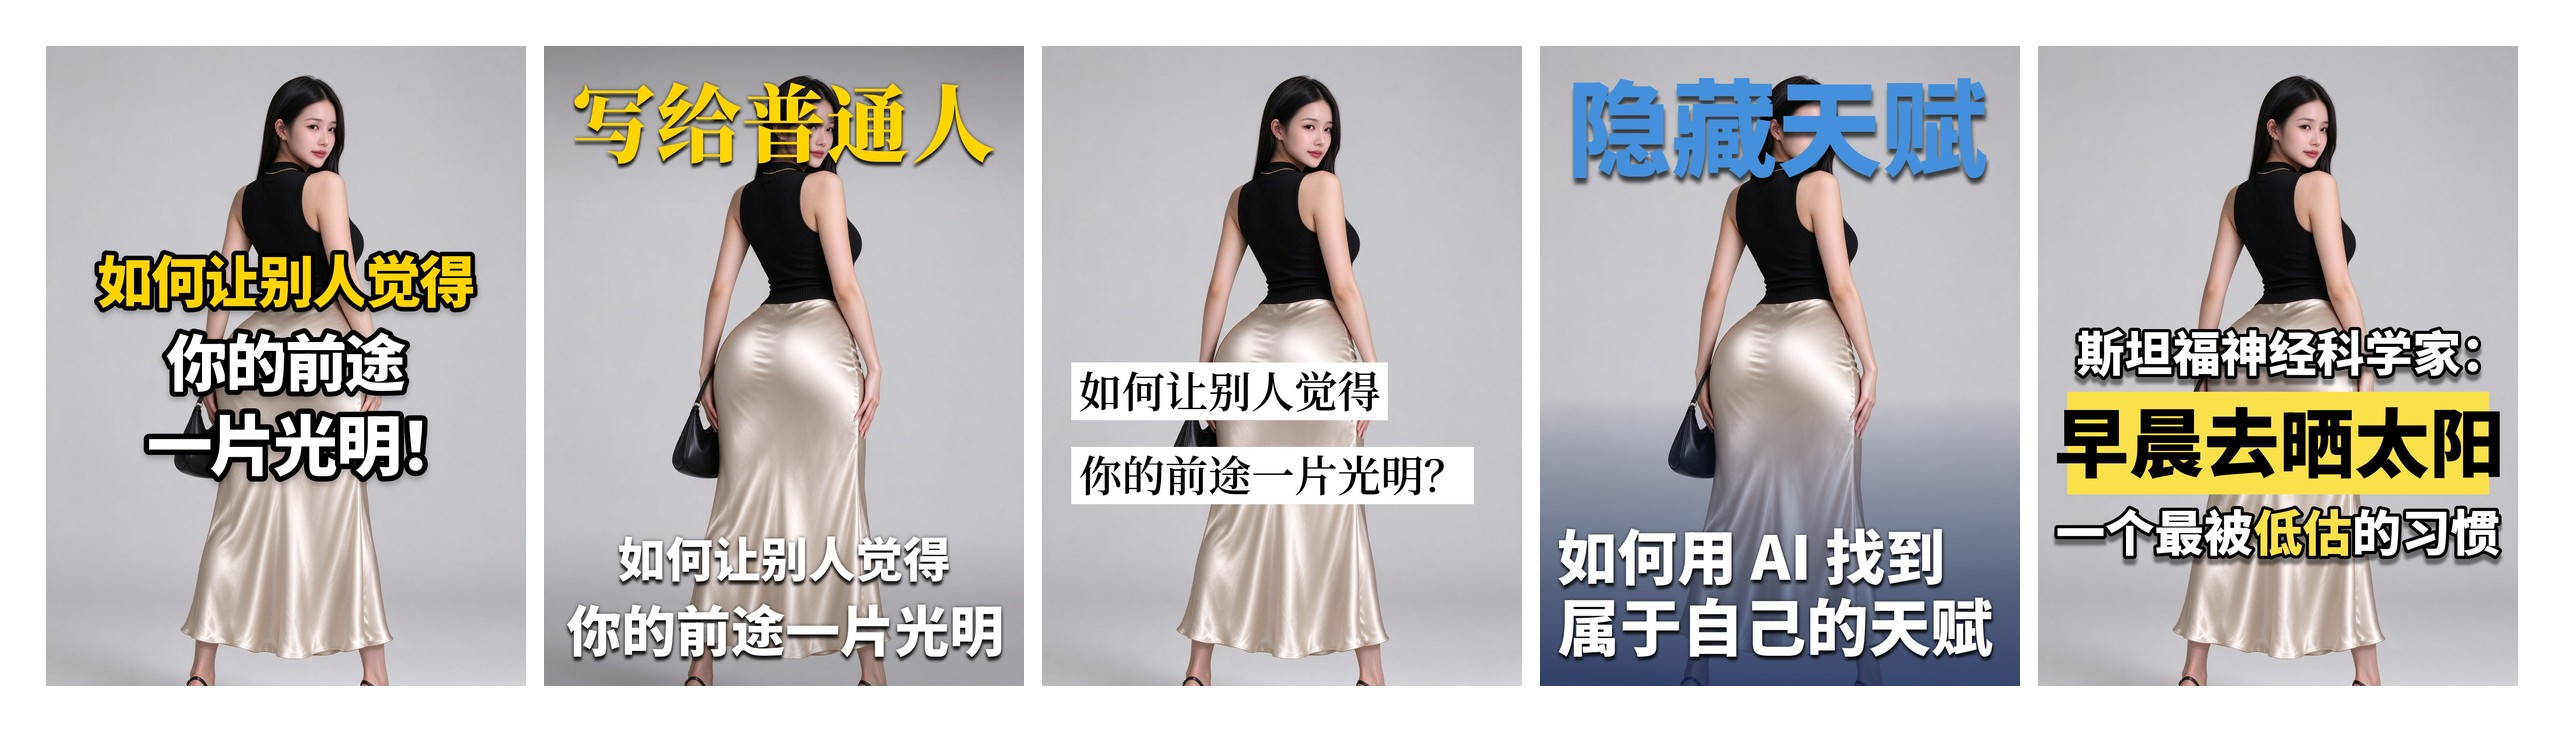
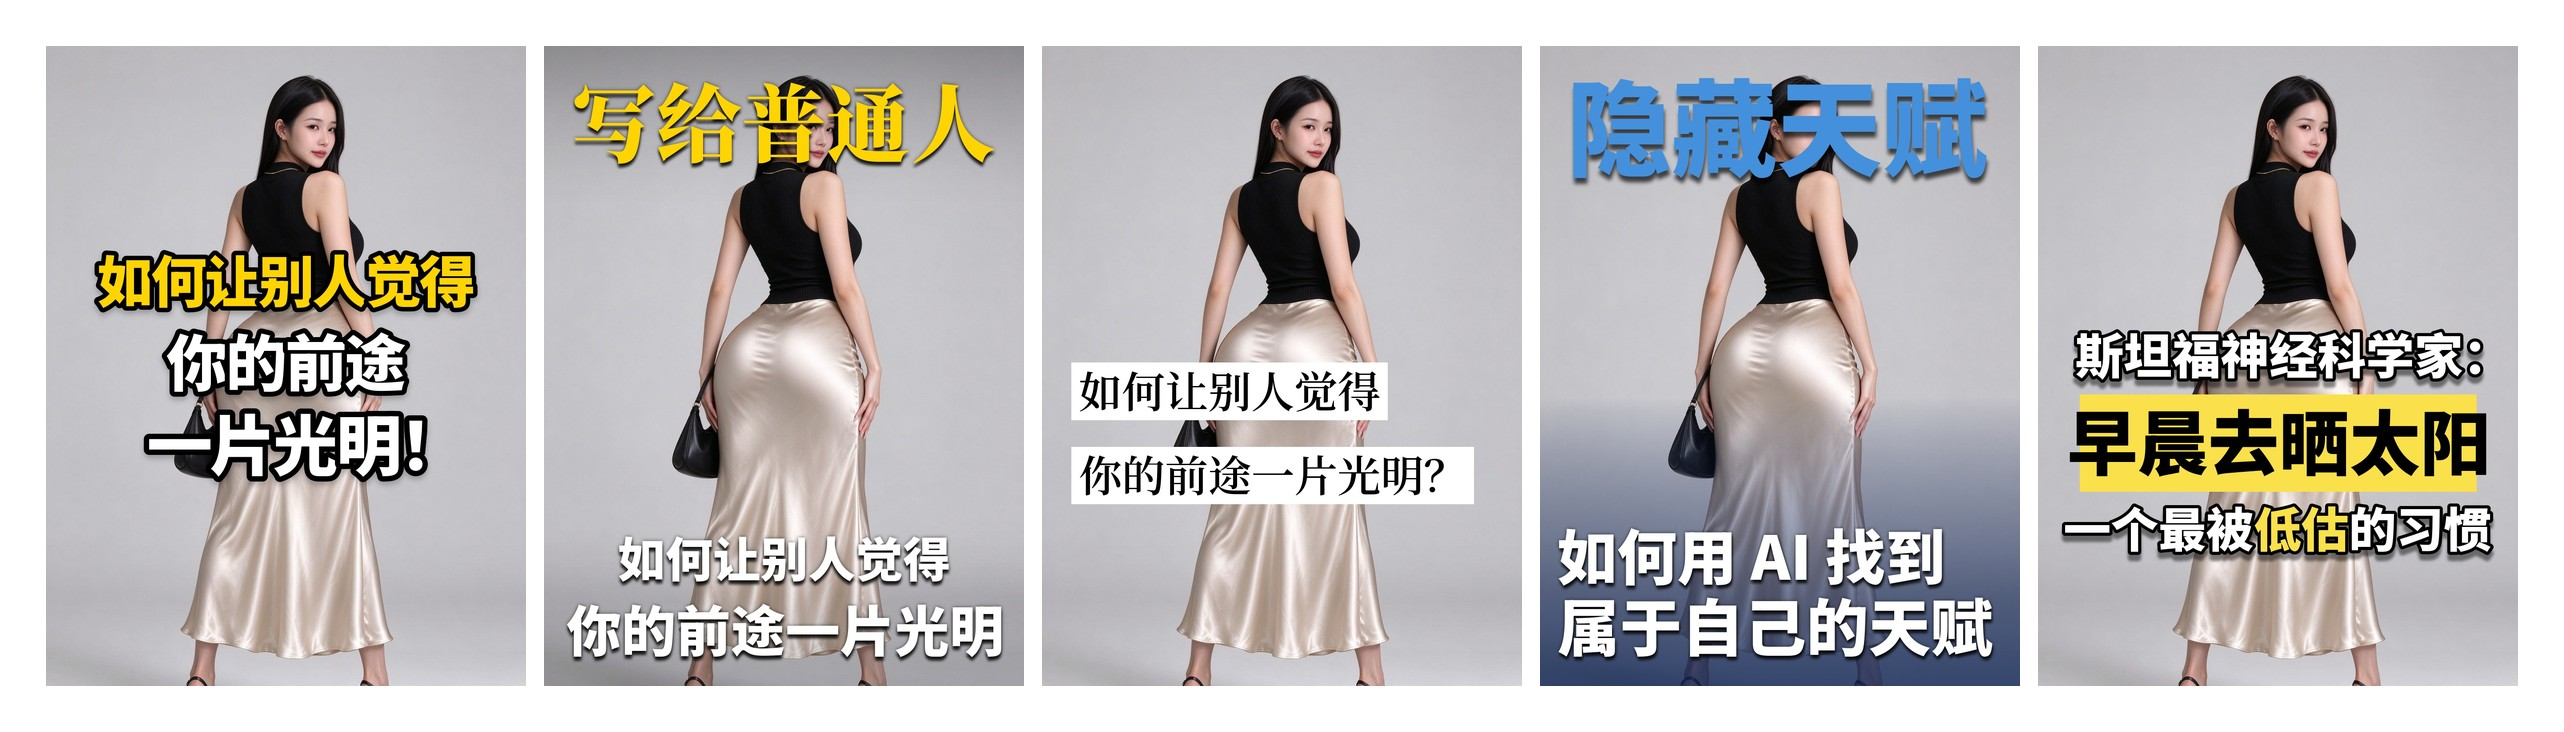
fix(style05): 三行字号拆成各自独立范围，主标题封顶 160
- 问题：4 字主标题按 0.92W 反解会到 235 号，中间那块比画面上半身还重
- 上一版用「主标题 × 比例」约束上下行，主标题一大上下行跟着膨胀，底行撑到 93%W 撞边
- 改成三行各一个绝对字号上限：ink_max 0.148(160) / id_max 0.118(127) / bot_max 0.120(130)
- id_cap 0.64→0.80、bot_cap 0.72→0.88，降级为兜底，主控交给绝对上限
- bot_w 0.93→0.90，底行不再压到画布边
- 新增主标题字数提醒：<4 字黄条窄成一坨、>7 字层级跟上下行拉平
- 文档补三版改法的对照表和「黄条宽度只由字数决定」

Changed region(s): [[0.78, 0.4508, 0.9984, 0.7814]]

diff --git a/tools/style05_yellow_bar.py b/tools/style05_yellow_bar.py
@@ -27,6 +27,7 @@
 """
 import argparse
 import os
+import sys
 
 from PIL import Image, ImageDraw, ImageFilter, ImageFont
 
@@ -43,17 +44,25 @@ BLACK = '#000000'
 
 ID_W = 0.860           # 身份行墨迹宽 / 画布宽
 INK_W = 0.920          # 主标题墨迹宽 / 画布宽（故意比黄条宽，字咬出条外）
-BOT_W = 0.930          # 底行墨迹宽 / 画布宽（底行要压得比黄条宽一点）
+BOT_W = 0.900          # 底行墨迹宽 / 画布宽（贴边到 0.93 会压到画布边，0.90 更稳）
 BAR_SCALE = 0.950      # 黄条宽 / 主标题墨迹宽（<1 = 字咬出黄条两侧，参考图就是这样）
 BAR_H = 1.42           # 黄条高 / 主标题墨迹高
 BAR_CY = 0.620         # 黄条中心 y / 画布高
 GAP_ID = 0.024         # 身份行墨迹底 → 黄条顶 / 画布宽
 GAP_BOT = 0.024        # 黄条底 → 底行墨迹顶 / 画布宽
 STROKE = 0.065         # 黑描边 / 字号
-ID_CAP = 0.64          # 身份行字号上限 / 主标题字号
-BOT_CAP = 0.72         # 底行字号上限 / 主标题字号
+ID_CAP = 0.80          # 身份行字号上限 / 主标题字号（绝对上限为主，这个只兜底）
+BOT_CAP = 0.88         # 底行字号上限 / 主标题字号（绝对上限为主，这个只兜底）
 MIN_SIZE = 0.045       # 字号下限 / 画布宽
 MAX_SIZE = 0.230       # 字号上限 / 画布宽
+# 主标题字号范围（这是本卡最容易失控的地方）
+# 主标题宽度写死 0.92W 时，4 字会放到 235 号——黄条厚成一条路障，字比画面还重。
+# 参考图是 6 字 / 87.9%W → 159 号，所以给主标题一个字号上下限，超出就让宽度自己收。
+# 三行各自一个字号范围，互不联动。以前身份行/底行按「主标题 × 比例」算，
+# 主标题一变大，上下两行跟着膨胀，底行会撑到 93%W 撞边 —— 比例制必须换掉。
+INK_MAX = 0.148        # 主标题字号上限 / 画布宽（≈160 号）
+ID_MAX = 0.118         # 身份行字号上限 / 画布宽（≈127 号）
+BOT_MAX = 0.120        # 底行字号上限 / 画布宽（≈130 号）
 
 SHADOW_ALPHA = 120     # 白字投影浓度（底图本身暗，不需要太重）
 SHADOW_DY = 0.0050     # / 画布高
@@ -202,6 +211,7 @@ def render(base, out, id_text='', ink_text='', bot_text='', hl_words='',
            font='noto', yellow=YELLOW, ink=WHITE,
            bar_scale=BAR_SCALE, bar_cy=BAR_CY, stroke=STROKE,
            id_w=ID_W, ink_w=INK_W, bot_w=BOT_W,
+           ink_max=INK_MAX, id_max=ID_MAX, bot_max=BOT_MAX,
            id_cap=ID_CAP, bot_cap=BOT_CAP,
            width=1080, height=1440, offset_y=0, shadow=True):
     W, H = width, height
@@ -214,18 +224,27 @@ def render(base, out, id_text='', ink_text='', bot_text='', hl_words='',
     # ---- 主标题：黑字无描边，压在黄条上
     ink_layer, ink_size = fit_line(
         ink_text, FONTS, font, W * ink_w, W, hex2rgba(BLACK),
-        stroke_ratio=0.0) if ink_text else (None, 0)
+        stroke_ratio=0.0, max_size=W * ink_max) if ink_text else (None, 0)
+
+    # 这套样式的骨架是「主标题 4-6 字」：少于 4 字黄条窄成一坨，多于 7 字字号塌到跟上下行一样大
+    n_ink = len(ink_text.strip()) if ink_text else 0
+    if n_ink and n_ink < 4:
+        print(f'  [warn] 主标题只有 {n_ink} 字，黄条会窄到 {n_ink/6:.0%} 左右；'
+              f'建议补到 4-6 字', file=sys.stderr)
+    elif n_ink > 7:
+        print(f'  [warn] 主标题 {n_ink} 字，字号已降到 {round(ink_size)}，'
+              f'层级会跟上下行拉平；建议压到 7 字以内', file=sys.stderr)
 
     # ---- 身份行：白字黑边，字号不许超过主标题
     id_layer, id_size = fit_line(
         id_text, FONTS, font, W * id_w, W, hex2rgba(ink),
-        stroke_ratio=stroke, max_size=ink_size * id_cap
+        stroke_ratio=stroke, max_size=min(W * id_max, ink_size * id_cap)
     ) if id_text else (None, 0)
     # 主标题字多时字号本来就小，cap 会把身份行压成一小团 —— 撑不满 0.62 W 就放宽重解
     if id_layer and id_layer.width < W * 0.62:
         id_layer, id_size = fit_line(
             id_text, FONTS, font, W * id_w, W, hex2rgba(ink),
-            stroke_ratio=stroke, max_size=min(ink_size, ink_size * id_cap * 1.35))
+            stroke_ratio=stroke, max_size=min(W * id_max, ink_size * id_cap * 1.35))
 
     # ---- 底行：白字黑边 + 高亮词，按 | 拆多行
     bot_lines = [t.strip() for t in (bot_text or '').split('|') if t.strip()]
@@ -235,7 +254,7 @@ def render(base, out, id_text='', ink_text='', bot_text='', hl_words='',
         bot_layers.append(fit_line(
             t, FONTS, font, W * bot_w, W, hex2rgba(ink),
             hl_words=net, hl_color=hex2rgba(yellow),
-            stroke_ratio=stroke, max_size=ink_size * bot_cap))
+            stroke_ratio=stroke, max_size=min(W * bot_max, ink_size * bot_cap)))
     # 多行副标题用同一个字号：各行独立反解会一大一小，读起来像两句不相干的话
     if len(bot_layers) > 1:
         uni = min(sz for _, sz in bot_layers)
@@ -325,7 +344,15 @@ def main():
     ap.add_argument('--bar-cy', type=float, default=BAR_CY, help='黄条中心 y / 画布高')
     ap.add_argument('--stroke', type=float, default=STROKE, help='黑描边 / 字号')
     ap.add_argument('--id-w', type=float, default=ID_W)
-    ap.add_argument('--ink-w', type=float, default=INK_W)
+    ap.add_argument('--ink-w', type=float, default=INK_W,
+                    help='主标题墨迹宽上限 / 画布宽，默认 0.92；实际宽度受 --ink-max 约束')
+    ap.add_argument('--ink-max', type=float, default=INK_MAX,
+                    help='主标题字号上限 / 画布宽，默认 0.158（≈171 号）；'
+                         '字少时在这里封顶，黄条跟着收窄')
+    ap.add_argument('--id-max', type=float, default=ID_MAX,
+                    help='身份行字号上限 / 画布宽，默认 0.118（≈127 号）')
+    ap.add_argument('--bot-max', type=float, default=BOT_MAX,
+                    help='底行字号上限 / 画布宽，默认 0.132（≈143 号）')
     ap.add_argument('--bot-w', type=float, default=BOT_W)
     ap.add_argument('--id-cap', type=float, default=ID_CAP)
     ap.add_argument('--bot-cap', type=float, default=BOT_CAP)
@@ -339,6 +366,7 @@ def main():
                font=a.font, yellow=a.yellow, ink=WHITE,
                bar_scale=a.bar_scale, bar_cy=a.bar_cy, stroke=a.stroke,
                id_w=a.id_w, ink_w=a.ink_w, bot_w=a.bot_w,
+               ink_max=a.ink_max, id_max=a.id_max, bot_max=a.bot_max,
                id_cap=a.id_cap, bot_cap=a.bot_cap,
                width=a.width, height=round(a.width * 4 / 3),
                offset_y=a.offset_y, shadow=not a.no_shadow)

diff --git a/style-library/05-黄条压字.md b/style-library/05-黄条压字.md
@@ -50,7 +50,10 @@ core:
 ```yaml
 canvas:      3:4（1080 × 1440），全库统一
 id_w:        0.860 W     # 身份行墨迹宽，硬约束
-ink_w:       0.920 W     # 主标题墨迹宽，硬约束（故意大于黄条）
+ink_w:       0.920 W     # 主标题墨迹宽【上限】（故意大于黄条）
+ink_max:     0.148 W     # 主标题字号【上限】≈160 号 ← 真正管住"字太大"的是这个
+id_max:      0.118 W     # 身份行字号上限 ≈127 号
+bot_max:     0.126 W     # 副标题字号上限 ≈136 号
 bot_w:       0.930 W     # 副标题墨迹宽，硬约束（最宽的一行）
 bar_scale:   0.950       # 黄条宽 / 主标题墨迹宽。<1 = 字咬边，这是特征；=1 会变成规整的色块
 bar_h:       1.42        # 黄条高 / 主标题墨迹高
@@ -58,15 +61,25 @@ bar_cy:      0.620 H     # 黄条中心 y，整块文字绕它上下排
 gap_id:      0.024 W     # 身份行墨迹底 → 黄条顶
 gap_bot:     0.024 W     # 黄条底 → 副标题墨迹顶
 stroke:      0.065       # 白字黑描边 / 字号
-id_cap:      0.64        # 身份行字号 ≤ 主标题 × 0.64
-bot_cap:     0.72        # 副标题字号 ≤ 主标题 × 0.72
+id_cap:      0.80        # 身份行 ≤ 主标题 × 0.80（只兜底，主控是 id_max）
+bot_cap:     0.88        # 副标题 ≤ 主标题 × 0.88（只兜底，主控是 bot_max）
 yellow:      #FAE04B     # 黄条与高亮字同色，实测自参考图
 shadow:      偏移 0.0050H，模糊 0.0028W，黑 120/255（底图偏暗，不能压太重）
 ```
 
 **字号是变量，宽度是常量**。三行各自撑满自己的目标宽，字数一变字号就跟着变——这样每张封面的文字面积是一致的。
 
-**`id_cap` / `bot_cap` 是必须的**。不加的话，10 字身份行和 6 字主标题算出来的字号会接近，层级立刻塌掉。参考图里主标题字号是身份行的 1.7 倍，这个比例靠 cap 兜住。
+**三行各有一个绝对字号上限，互不联动**。这是第三版改法，前两版都错：
+
+| 版本 | 做法 | 结果 |
+|---|---|---|
+| v1 | 只按宽度反解，不设上限 | 4 字主标题放到 235 号，黄条厚成路障 |
+| v2 | 上下行按「主标题 × 比例」 | 主标题一大，上下行跟着膨胀，底行撑到 93%W 撞边 |
+| v3 | 每行一个绝对上限（`ink_max` / `id_max` / `bot_max`） | 主标题封在 160，上下行锁在 127 / 136，宽度自己收 |
+
+现在的比例参数（`id_cap` 0.80 / `bot_cap` 0.88）只当兜底：主标题极小时别再压上下行，主标题极大时别让上下行反超。主控永远是那三个绝对上限。
+
+**主标题字号范围 145-171 号（0.134-0.158 W），默认 160。** 低于 145 大黄条太薄、字压不住画面；高于 171 就回到"中间一块砖"的老问题。
 
 ## 用法
 
@@ -103,6 +116,7 @@ python tools/style05_yellow_bar.py --base 底图.jpg --out 封面.jpg \
 - **不要让副标题没有高亮词**。高亮词是这个样式唯一的"语气重音"，去掉就是三行平铺的白字。
 - **不要三行都用同一个字号**。主标题必须明显大于上下两行，否则读起来像三句并列的话。
 - **不要用高饱和纯黄 `#FFD400`**。参考图那个黄是偏奶的柠檬黄，纯黄在深色底上会泛荧光、看着廉价。
+- **黄条宽度由字数决定，这一步没法用字号救**。主标题 4 字 → 黄条 55%W；6 字 → 87%W。要让黄条占满下半身，就把主标题写成 6 字（`给00后的建议`），别把 4 字放到 200 号以上硬撑。
 - **主标题不要超过 7 字**。8 字以上主标题会小到跟身份行差不多，三行层级直接塌掉——实测 9 字主标题字号 121，身份行 105，几乎一样大。宁可在身份行里多写字，也不要把长句塞进黄条。
 - **主标题不要少于 4 字**。3 字撑满 92% 宽会撞到字号上限（248），黄条会厚成一条路障。
 - **不要把黄条挪到画面上半部**。它要压在下半身，上半部要留给脸和头顶。

diff --git a/README.md b/README.md
@@ -109,10 +109,13 @@ python tools/style05_yellow_bar.py \
 | `--bar-scale` | `0.95` | 黄条宽 / 主标题墨迹宽；`<1` 字咬出条外，`>1` 退回成规整色块 |
 | `--bar-cy` | `0.62` | 黄条中心 y / 画布高，整块文字绕它排 |
 | `--stroke` | `0.065` | 白字黑描边 / 字号；底图很亮时加到 `0.078` |
-| `--ink-w` | `0.92` | 主标题墨迹宽 / 画布宽 |
+| `--ink-w` | `0.92` | 主标题墨迹宽**上限** / 画布宽 |
+| `--ink-max` | `0.148` | 主标题字号**上限** ≈160 号，字少时在这里封顶 |
+| `--id-max` | `0.118` | 身份行字号上限 ≈127 号 |
+| `--bot-max` | `0.126` | 副标题字号上限 ≈136 号 |
 | `--bot-w` | `0.93` | 副标题墨迹宽 / 画布宽 |
-| `--id-cap` | `0.64` | 身份行字号上限 / 主标题字号 |
-| `--bot-cap` | `0.72` | 副标题字号上限 / 主标题字号 |
+| `--id-cap` | `0.80` | 身份行 ≤ 主标题 × 0.80（兜底，主控是 `--id-max`） |
+| `--bot-cap` | `0.88` | 副标题 ≤ 主标题 × 0.88（兜底，主控是 `--bot-max`） |
 | `--font` | `noto` | 思源黑 900；可选 `yahei` / `heiti` / `serif` |
 | `--offset-y` | `0` | 整块上下微调像素 |
 | `--no-shadow` | off | 关掉白字投影 |
@@ -229,14 +232,19 @@ python tools/style05_yellow_bar.py \
 副标题宽度    0.930 W
 行间距        0.024 W              # 身份行底→条顶、条底→副标题顶
 白字描边      0.065 × 字号
-身份行字号    ≤ 主标题 × 0.64
-副标题字号    ≤ 主标题 × 0.72
+主标题字号    145-171 号（0.134-0.158 W），默认 160  ← 硬上限，超了就收宽度
+身份行字号    ≤ 127 号（0.118 W）
+副标题字号    ≤ 136 号（0.126 W）
+            # 三行各自一个绝对上限，互不联动；
+            # 按「主标题 × 比例」算会让上下行跟着主标题膨胀
 黄色          #FAE04B              # 条与高亮字同色
 ```
 
 **黄条不是框，是垫在字底下的一块色**。一旦黄条比字宽，就退化成样式03 的白条换了个颜色。
 
-**cap 是层级保险**：10 字身份行和 6 字主标题按宽度反解会得到接近的字号，不加 cap 三行就一样大了。
+**字号上限是层级保险，比例不是**：三行都按宽度反解，10 字身份行和 6 字主标题算出来会接近，所以每行各给一个绝对上限。用「主标题 × 比例」会让上下行跟着主标题一起膨胀，主标题一放大底行就撞边。
+
+**黄条宽度只由字数决定**：4 字 → 55%W，6 字 → 87%W。要黄条占满下半身就写 6 字，别把 4 字放到 200 号硬撑。
 
 **彩字是这张卡的身份证**：标题是整张唯一上色的元素，靠颜色把人从底图里拽出来。一旦标题不上色，就退化成样式02 了。
 
